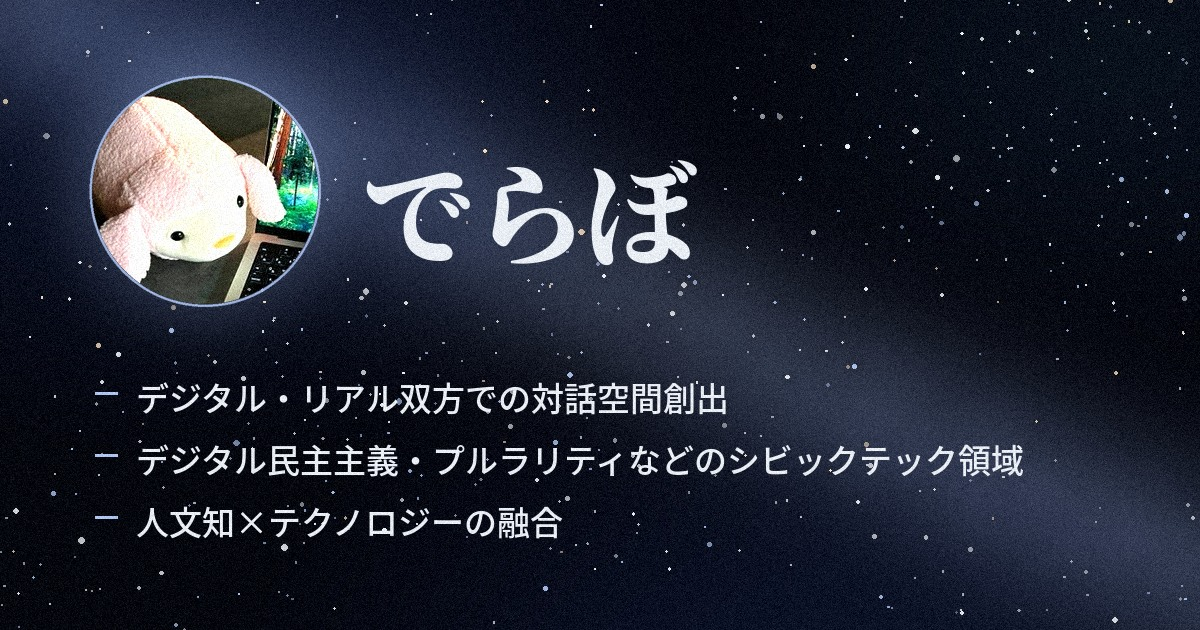
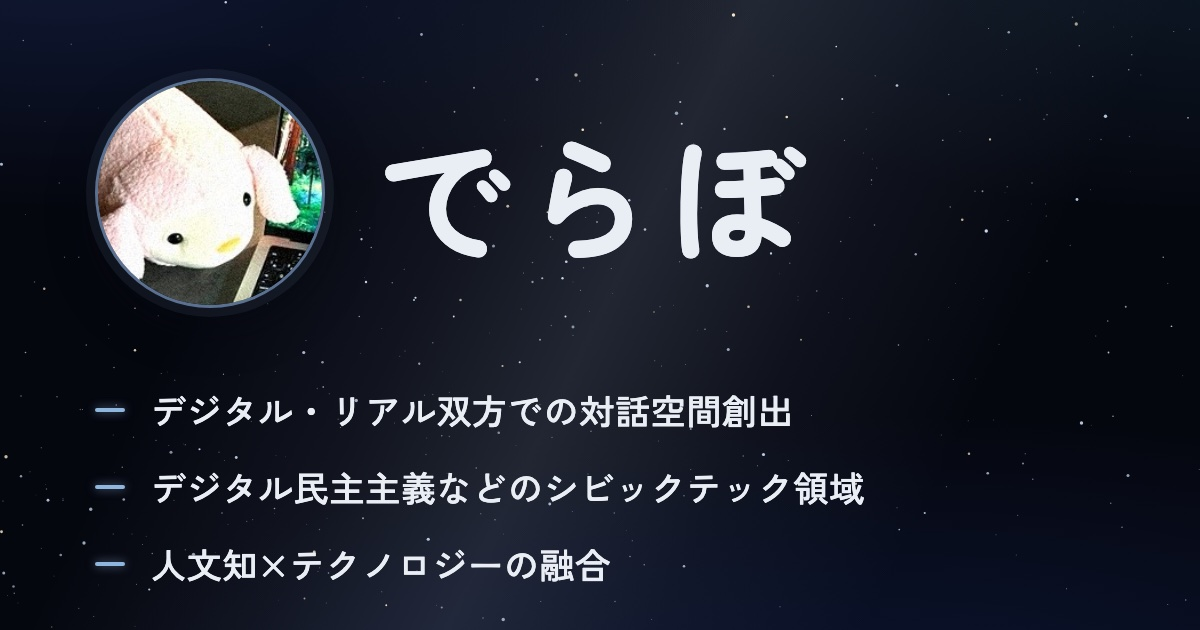
Split hero lede into paragraphs and refresh content
- Break the hero lede into three <p class="lede"> elements so the raw
  newlines no longer collapse into spaces, with .lede + .lede spacing
- Add Code for Japan / 哲学対話 items and reorder 個人活動
- Tighten interest and translation wording, update footer to 2026年10月
- Recompress ogp/card.jpg, add .gitignore for .DS_Store

diff --git a/index.html b/index.html
@@ -97,6 +97,7 @@
   }
   .role{margin:1.6rem 0 0;font-size:.92rem;color:var(--tetsu);letter-spacing:.14em}
   .lede{margin:2.2rem 0 0;max-width:35rem;color:var(--gofun)}
+  .lede + .lede{margin-top:1.2rem}
   .interest{
     margin:0;padding:0;list-style:none;max-width:34rem;
     font-family:"Zen Old Mincho","Hiragino Mincho ProN",serif;font-weight:600;
@@ -211,14 +212,16 @@
       </div>
       <h1 class="name">でらぼ</h1>
     </div>
-    <p class="lede">哲学科の大学院を出たあと、予備校で5年間ほど勤務し、31歳でWebエンジニアに転職。現在は渋谷の受託開発企業に勤務。自身のやりたいことの実現に向けて、いまは開発の現場でエンジニアとしての実力と経験を積んでいる段階です。</p>
+    <p class="lede">哲学科の大学院修了後、予備校に約5年間勤務し、31歳でWebエンジニアに転職。現在は渋谷の受託開発企業に勤務しています。</p>
+    <p class="lede">大学院時代には哲学科の院生としてアカデミアを志していましたが、半ば挫折。その後、30代を迎え改めて「世界にとって本当に意味のあることをしたい」という自身の思いに向き合い、評論家ではなく、実装者として社会を良くしたいと考え、エンジニアへ転身しました。</p>
+    <p class="lede">現在は開発現場で経験を積みながら、社外にも活動の場を広げています。</p>
   </header>
 
   <section>
     <h2>関心</h2>
     <ul class="interest">
       <li>デジタル・リアル双方での対話空間の創出</li>
-      <li>デジタル民主主義、プルラリティなどのシビックテック領域</li>
+      <li>デジタル民主主義などのシビックテック領域</li>
       <li>人文知とテクノロジーの融合</li>
     </ul>
   </section>
@@ -237,6 +240,16 @@
     <h2>個人活動</h2>
 
     <div class="item">
+      <h3>Code for Japanのイベント参加</h3>
+      <p>Code for Japanが主催するシビックテック関連のイベントやサミットに、継続的に参加しています。</p>
+    </div>
+
+    <div class="item">
+      <h3>哲学対話</h3>
+      <p>休日は有志の哲学対話に積極的に参加しています。</p>
+    </div>
+
+    <div class="item">
       <h3>Small Voice（社内ハッカソン発表）</h3>
       <p>小さな声を集めて可視化する、生成AIを使ったWebサービス。</p>
       <p class="links">
@@ -253,13 +266,8 @@
     </div>
 
     <div class="item">
-      <h3>哲学対話</h3>
-      <p>休日は有志の哲学対話などに継続的に参加しています。</p>
-    </div>
-
-    <div class="item">
       <h3>ドイツ語哲学書の翻訳</h3>
-      <p>大学の頃の先生とほか数名のメンバーで、細々と趣味レベルで続けています。ドイツ語は学生時代勉強していましたが、全然読めないです。近々出版するかもしれないものはあります。</p>
+      <p>大学の頃の先生とほか数名で、細々と続けています。ドイツ語は学生時代勉強していましたが、全然読めないです。近々出版するかもしれないものはあります。</p>
     </div>
   </section>
 
@@ -304,7 +312,7 @@
     </details>
   </section>
 
-  <footer>最終更新 2026年9月</footer>
+  <footer>最終更新 2026年10月</footer>
 </div>
 </body>
 </html>
